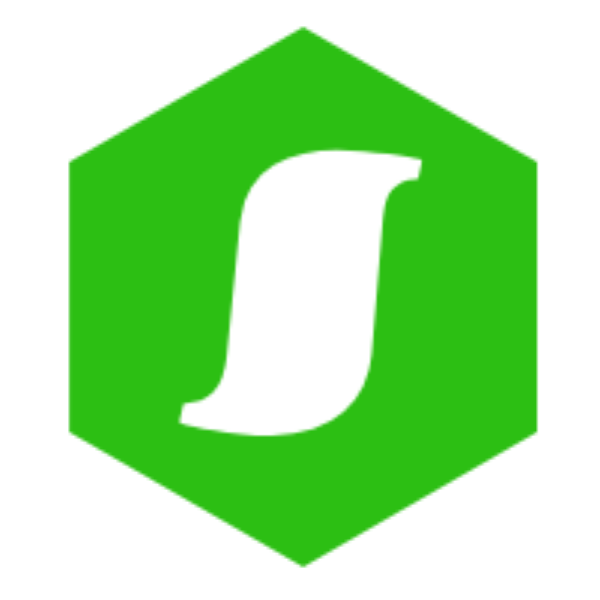
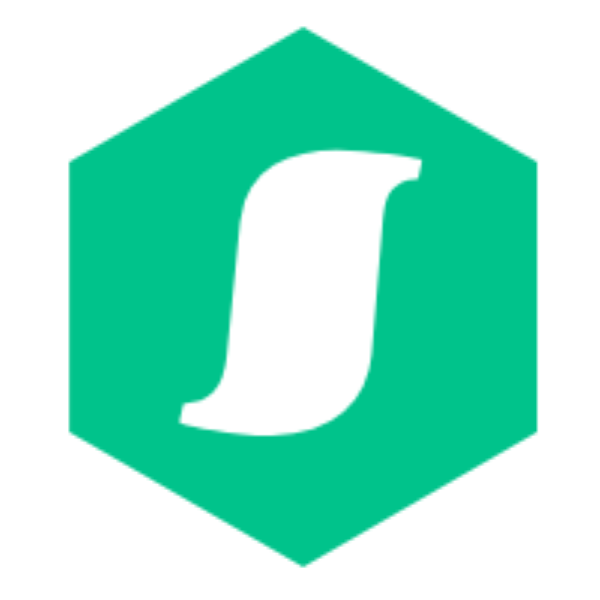
no message

diff --git a/src/stories/screens/Home/index.js b/src/stories/screens/Home/index.js
@@ -1,28 +1,21 @@
 import * as React from "react";
 import {
-  Container,
-  Header,
-  Title,
-  Content,
-  Text,
-  Button,
-  Icon,
-  Left,
-  Body,
-  Right,
-  List,
-  ListItem,
-  Row,
-  Col,
-  Card,
-  CardItem,
-  H1
+  Container, Header, Title, Content,
+  Text, Button, Icon, Left, Body, Right,
+  List, ListItem, Row, Col,
+  Card, CardItem,
+  H1, H2, H3
 } from "native-base";
 
 import styles from "./styles";
-import Sparkline from "react-native-sparkline";
-import OTP from 'otp-client'
-import {AsyncStorage} from "react-native";
+// import Sparkline from "react-native-sparkline";
+import ProgressBar from 'react-native-progress-bar';
+
+import OTP from "otp-client";
+import { AsyncStorage } from "react-native";
+import { TextLetterSpacing } from "./TextLetterSpacing";
+
+// var ProgressBar = require("react-native-progress-bar");
 
 export interface Props {
   navigation: any;
@@ -35,46 +28,75 @@ class Home extends React.Component<Props, State> {
   constructor(props) {
     super(props);
     this.state = {
-      token: '000000',
+      token: "000000",
+      prevToken: "000000",
+      nextToken: "000000",
       nextTokenSecond: 0,
       subTitle: this.props.userId,
       intervalId: null,
       otpKey: null,
-      textColor: '#000000',
+      period: 60,
+      digits: 6,
+      textColor: "#000000",
+      progress: 0,
     };
 
   }
   componentDidMount() {
 
-    var options = {
-      algorithm: 'sha1',
-      digits: 6,
-      period: 60,
-      epoch: null
-    };
 
-    AsyncStorage.getItem('@ApiKeysStore:otpKey', (err, result) => {
-      if(err) {
+
+    AsyncStorage.getItem("@ApiKeysStore:period", (err, result) => {
+      if (err) {
         return;
       }
+      this.setState({period: parseInt(result)});
+    });
 
+    AsyncStorage.getItem("@ApiKeysStore:digits", (err, result) => {
+      if (err) {
+        return;
+      }
+      this.setState({digits: parseInt(result)});
+    });
+
+    AsyncStorage.getItem("@ApiKeysStore:otpKey", (err, result) => {
+      if (err) {
+        return;
+      }
       this.setState({otpKey: result});
-
     });
 
     let intervalId = setInterval(() => {
 
-      if(!this.state.otpKey) {
+      if (!this.state.otpKey) {
         return;
       }
 
+      // console.log(this.state);
+
+      var options = {
+        algorithm: "sha1",
+        digits: this.state.digits,
+        period: this.state.period,
+        epoch: null
+      };
+
       const otp = new OTP(this.props.userId + this.state.otpKey, options);
       const token = otp.getToken();
+      const prevToken = otp.getToken(-1);
+      const nextToken = otp.getToken(1);
+
+      let timeLeft = otp.getTimeUntilNextTick() + 1;
+      let progress = (this.state.period - timeLeft) / this.state.period;
 
       this.setState({
         token: token,
-        nextTokenSecond: otp.getTimeUntilNextTick(),
-        textColor: otp.getTimeUntilNextTick() < 10 ? '#ff0000' : '#000000',
+        prevToken: prevToken,
+        nextToken: nextToken,
+        nextTokenSecond: timeLeft,
+        textColor: otp.getTimeUntilNextTick() < 10 ? "#ff0000" : "#000000",
+        progress: progress,
       });
 
     }, 1000);
@@ -107,17 +129,59 @@ class Home extends React.Component<Props, State> {
         </Header>
 
         <Content padder>
-          <Card>
-            <CardItem header>
-              <Text>{this.props.userId}</Text>
-            </CardItem>
+          <Card style={{ alignItems: 'center' }}>
+            {/*<CardItem header>*/}
+              {/*<Text>{this.props.userId}</Text>*/}
+            {/*</CardItem>*/}
             <CardItem>
               <Body>
-                <H1 style={{color: this.state.textColor}}>{this.state.token}</H1>
+                {/*<TextLetterSpacing*/}
+                  {/*spacing={3}*/}
+                  {/*viewStyle={{ marginLeft: 15 }}*/}
+                  {/*textStyle={{*/}
+                    {/*fontSize: 35,*/}
+                    {/*color: "lightgrey"*/}
+                  {/*}}*/}
+                {/*>*/}
+                  {/*{this.state.prevToken}*/}
+                {/*</TextLetterSpacing>*/}
+
+                <TextLetterSpacing
+                  spacing={2}
+                  // viewStyle={{ paddingTop: 10 }}
+                  textStyle={{
+                    fontSize: 42,
+                    color: this.state.textColor,
+                  }}
+                >
+                  { this.state.token }
+                </TextLetterSpacing>
+
+                {/*<TextLetterSpacing*/}
+                  {/*spacing={3}*/}
+                  {/*viewStyle={{ marginLeft: 15 }}*/}
+                  {/*textStyle={{*/}
+                    {/*fontSize: 35,*/}
+                    {/*color: "lightgrey"*/}
+                  {/*}}*/}
+                {/*>*/}
+                  {/*{this.state.nextToken}*/}
+                {/*</TextLetterSpacing>*/}
+                <ProgressBar
+                  fillStyle={{}}
+                  backgroundStyle={{backgroundColor: "#cccccc", borderRadius: 2}}
+                  style={{marginTop: 10, width: 300}}
+                  progress={this.state.progress}
+                />
               </Body>
             </CardItem>
-            <CardItem footer>
-              <Text>{(this.state.nextTokenSecond + 1)} second(s) left</Text>
+            <CardItem>
+              <Row>
+                <Left/>
+                <Right style={{flex: 3}}>
+                  <Text note>{this.state.nextTokenSecond} second(s) left</Text>
+                </Right>
+              </Row>
             </CardItem>
           </Card>
         </Content>

diff --git a/src/stories/screens/BlankPage/index.js b/src/stories/screens/BlankPage/index.js
@@ -1,7 +1,9 @@
 import * as React from "react";
-import { Container, Header, Title, Content, Text, Button, Icon, Left, Right, Body, Card, CardItem } from "native-base";
+import { Image, Platform } from "react-native";
+import { Container, Header, Title, Content, Text, Button, Icon, Left, Right, Body, Card, CardItem, Row } from "native-base";
 
 import styles from "./styles";
+// import {Image} from "../Login";
 export interface Props {
 	navigation: any;
 }
@@ -27,18 +29,24 @@ class BlankPage extends React.Component<Props, State> {
 
 				<Content padder>
           <Card>
-            <CardItem header>
-              <Text>SeedAuth Mobile</Text>
-            </CardItem>
             <CardItem>
               <Body>
+              <Image
+                source={require("../../../../assets/logo-seedauth.png")}
+                style={{width: 600 / 4, height: 172 / 4}}
+              />
               <Text>
                 SeedAuth Mobile is Mobile OTP(One-time password) App for SeedCloud and SeedVDI.
               </Text>
               </Body>
             </CardItem>
-            <CardItem header>
-              <Text>Copyright 2018 DFOCUS Inc.</Text>
+            <CardItem>
+              <Row>
+                <Left/>
+                <Right style={{flex: 3}}>
+                  <Text note>Copyright 2018 DFOCUS Inc.</Text>
+                </Right>
+              </Row>
             </CardItem>
           </Card>
 				</Content>

diff --git a/src/stories/screens/Home/TextLetterSpacing.js b/src/stories/screens/Home/TextLetterSpacing.js
@@ -1,0 +1,38 @@
+import React from "react";
+import { StyleSheet, View, Text } from "react-native";
+
+const spacingForLetterIndex = (letters, index, spacing) => {
+  if (letters.length - 1 === index) {
+    return 0;
+  } else {
+    if (letters.length <= 4) {
+     return spacing;
+    } else {
+      if ((index + 1) % 3 === 0 ) {
+        return spacing * 4;
+      } else {
+          return spacing;
+      }
+    }
+  }
+}
+
+export const TextLetterSpacing = (props) => {
+  const { children, spacing, viewStyle, textStyle } = props;
+  const letters = children.split("");
+
+
+  return <View style={[styles.container, viewStyle]}>
+    {letters.map((letter, index) =>
+      <Text key={index}  style={[textStyle, { paddingRight: spacingForLetterIndex(letters, index, spacing)} ]}>
+        {letter}
+      </Text>
+    )}
+  </View>;
+};
+
+const styles = StyleSheet.create({
+  container: {
+    flexDirection: "row"
+  }
+});

diff --git a/src/container/LoginContainer/index.js b/src/container/LoginContainer/index.js
@@ -91,6 +91,8 @@ export default class LoginContainer extends React.Component<Props, State> {
 
         if(jsonObj.result == 'True') {
           AsyncStorage.setItem('@ApiKeysStore:otpKey', jsonObj.reason);
+          AsyncStorage.setItem('@ApiKeysStore:period', "" + jsonObj.period);
+          AsyncStorage.setItem('@ApiKeysStore:digits', "" + jsonObj.digits);
 
           loginForm.saveUserAuthInfo();
           navigation.navigate("Drawer");

diff --git a/src/theme/variables/platform.js b/src/theme/variables/platform.js
@@ -108,7 +108,7 @@ export default {
 	cardDefaultBg: "#fff",
 
 	// Color
-	brandPrimary: platform === "ios" ? "#007aff" : "#3F51B5",
+	brandPrimary: "#00c38b", //platform === "ios" ? "#007aff" : "#3F51B5",
 	brandInfo: "#62B1F6",
 	brandSuccess: "#5cb85c",
 	brandDanger: "#d9534f",

diff --git a/src/theme/variables/commonColor.js b/src/theme/variables/commonColor.js
@@ -108,7 +108,7 @@ export default {
 	cardDefaultBg: "#fff",
 
 	// Color
-	brandPrimary: "#2874F0",
+	brandPrimary: "#00c38b", //"#2874F0",
 	brandInfo: "#62B1F6",
 	brandSuccess: "#5cb85c",
 	brandDanger: "#d9534f",
